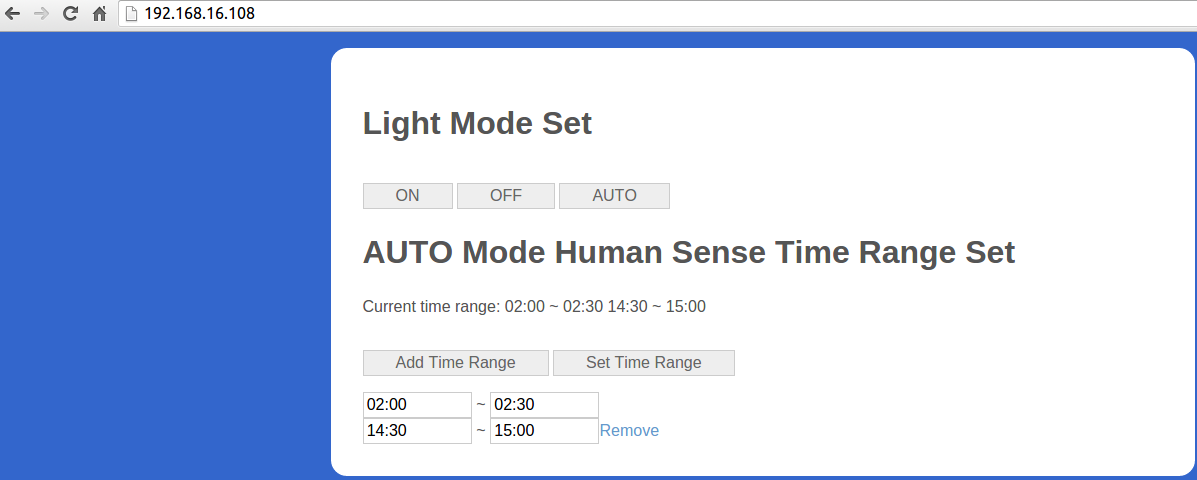
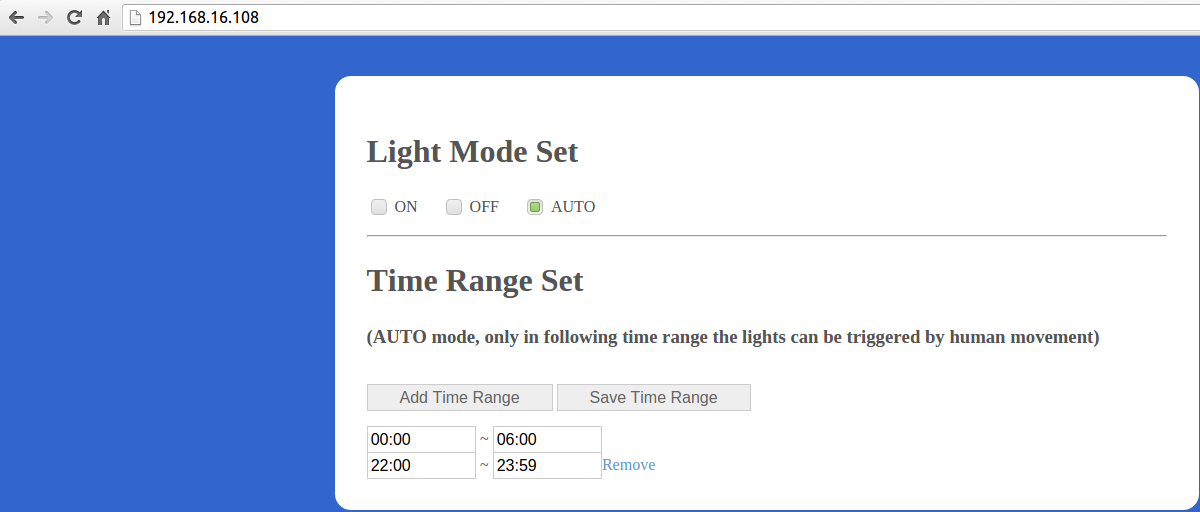
(1) Sync mode data when page loaded; (2) Update a demo image

diff --git a/gpio/timer-sense-light/web-root/index.html b/gpio/timer-sense-light/web-root/index.html
@@ -17,9 +17,9 @@
 <body>
   <div class="content">
     <h1>Light Mode Set</h1>
-    <input id="radio_light_mode_on" type="radio" name="radio" value="1"><label for="radio_light_mode_on"><span><span></span></span>ON</label>&nbsp;&nbsp;&nbsp;&nbsp;&nbsp;
-    <input id="radio_light_mode_off" type="radio" name="radio" value="2"><label for="radio_light_mode_off"><span><span></span></span>OFF</label>&nbsp;&nbsp;&nbsp;&nbsp;&nbsp;
-    <input id="radio_light_mode_auto" type="radio" name="radio" value="3"><label for="radio_light_mode_auto"><span><span></span></span>AUTO</label>&nbsp;&nbsp;&nbsp;&nbsp;&nbsp;
+    <input id="radio_light_mode_on" type="radio" name="radio" value="0"><label for="radio_light_mode_on"><span><span></span></span>ON</label>&nbsp;&nbsp;&nbsp;&nbsp;&nbsp;
+    <input id="radio_light_mode_off" type="radio" name="radio" value="1"><label for="radio_light_mode_off"><span><span></span></span>OFF</label>&nbsp;&nbsp;&nbsp;&nbsp;&nbsp;
+    <input id="radio_light_mode_auto" type="radio" name="radio" value="2"><label for="radio_light_mode_auto"><span><span></span></span>AUTO</label>&nbsp;&nbsp;&nbsp;&nbsp;&nbsp;
     <p></p>
 
     <hr />

diff --git a/gpio/timer-sense-light/web-root/main.js b/gpio/timer-sense-light/web-root/main.js
@@ -28,7 +28,17 @@ $(document).ready(function() {
 	}
     }
 
-    // when web page just loaded, sync the time range data on the page with backend program
+    // when web page just loaded, sync the mode on web page with backend program
+    $.ajax({
+	url: '/get-mode',
+	dataType: 'json',
+	success: function(json) {
+	    var mode = json.result;  // e.g. 1
+	    $("[type=radio]").get(mode).checked = true;
+	}
+    });
+
+    // when web page just loaded, sync the time range data on web page with backend program
     $.ajax({
 	url: '/get-time-range',
 	dataType: 'json',

diff --git a/gpio/timer-sense-light/include/thread_web_handler.h b/gpio/timer-sense-light/include/thread_web_handler.h
@@ -26,6 +26,74 @@ static void sendHttpResponse302(struct mg_connection *nc) {
 }
 
 /**
+ * A specific HTTP event handler to get light running mode.
+ *
+ * @param nc  Describes a HTTP connection.
+ */
+static void handleGetMode(struct mg_connection *nc) {
+  int mode = MODE_AUTO;
+  if (gConfigLoader.isManualMode()) {
+    mode = (gConfigLoader.getLedLevel() == HIGH) ? MODE_ON : MODE_OFF;
+  }
+  LOG(INFO) << "Mode read: " << mode;
+
+  // use chunked encoding in order to avoid calculating Content-Length, please refer to https://en.wikipedia.org/wiki/Chunked_transfer_encoding for details
+  mg_printf(nc, "%s", "HTTP/1.1 200 OK\r\nTransfer-Encoding: chunked\r\n\r\n");
+
+  // output JSON object
+  mg_printf_http_chunk(nc, "{ \"result\": \"%d\" }", mode);
+
+  // send empty chunk, the end of response
+  mg_send_http_chunk(nc, "", 0);
+}
+
+/**
+ * A specific HTTP event handler to set light running mode.
+ *
+ */
+static void handleSetMode(struct mg_connection *nc, struct http_message *hm) {
+  /* get web page variables */
+  int length = 8;
+  char temp[length];
+  memset(temp, 0, length);
+  mg_get_http_var(&hm->body, "mode", temp, length);
+
+  bool success = true;
+  int mode = atoi(temp);
+  switch (mode) {
+  case MODE_ON:
+    {
+      LOG(INFO) << "Switch to mode ON";
+      gConfigLoader.setManualMode(true);
+      gConfigLoader.setLedLevel(HIGH);
+      break;
+    }
+  case MODE_OFF:
+    {
+      LOG(INFO) << "Switch to mode OFF";
+      gConfigLoader.setManualMode(true);
+      gConfigLoader.setLedLevel(LOW);
+      break;
+    }
+  case MODE_AUTO:
+    {
+      LOG(INFO) << "Switch to mode AUTO";
+      gConfigLoader.setManualMode(false);
+      break;
+    }
+  default:
+    {
+      LOG(ERROR) << "Unrecognized mode: " << mode;
+      success = false;
+    }
+  }
+
+  if (success) {
+    sendHttpResponse302(nc);
+  }
+}
+
+/**
  * A specific HTTP event handler to get time range data.
  *
  * @param nc  Describes a HTTP connection.
@@ -76,54 +144,6 @@ static void handleSaveTimeRange(struct mg_connection *nc, struct http_message *h
 }
 
 /**
- * A specific HTTP event handler to set light running mode.
- *
- */
-static void handleSetMode(struct mg_connection *nc, struct http_message *hm) {
-  /* get web page variables */
-  int length = 8;
-  char temp[length];
-  memset(temp, 0, length);
-  mg_get_http_var(&hm->body, "mode", temp, length);
-
-  LOG(INFO) << "Will set mode to ";
-
-  bool success = true;
-  int mode = atoi(temp);
-  switch (mode) {
-  case MODE_ON:
-    {
-      LOG(INFO) << "Switch to mode ON";
-      gConfigLoader.setManualMode(true);
-      gConfigLoader.setLedLevel(HIGH);
-      break;
-    }
-  case MODE_OFF:
-    {
-      LOG(INFO) << "Switch to mode OFF";
-      gConfigLoader.setManualMode(true);
-      gConfigLoader.setLedLevel(LOW);
-      break;
-    }
-  case MODE_AUTO:
-    {
-      LOG(INFO) << "Switch to mode AUTO";
-      gConfigLoader.setManualMode(false);
-      break;
-    }
-  default:
-    {
-      LOG(ERROR) << "Unrecognized mode: " << mode;
-      success = false;
-    }
-  }
-
-  if (success) {
-    sendHttpResponse302(nc);
-  }
-}
-
-/**
  * HTTP event handler.
  * Please refer to the API doc of Mongoose for the detail of the params.
  *
@@ -133,6 +153,10 @@ static void httpEventHandler(struct mg_connection *nc, int ev, void *ev_data) {
 
   switch (ev) {
     case MG_EV_HTTP_REQUEST:
+      if (mg_vcmp(&hm->uri, "/get-mode") == 0) {
+	LOG(INFO) << "Will get mode...";
+	handleGetMode(nc);
+      }
       if (mg_vcmp(&hm->uri, "/set-mode") == 0) {
 	handleSetMode(nc, hm);
       } else if (mg_vcmp(&hm->uri, "/get-time-range") == 0) {

diff --git a/gpio/timer-sense-light/include/constants.h b/gpio/timer-sense-light/include/constants.h
@@ -17,18 +17,8 @@ const int ENABLE_STATUS = 1;
 const int INVALID_POSITION = -1;
 const int ONE_DAY_MINUTES = 1440;  // total minutes of a day
 
-const int MODE_ON = 1;
-const int MODE_OFF = 2;
-const int MODE_AUTO = 3;
+const int MODE_ON = 0;
+const int MODE_OFF = 1;
+const int MODE_AUTO = 2;
 
 #endif
-
-
-
-
-
-
-
-
-
-
